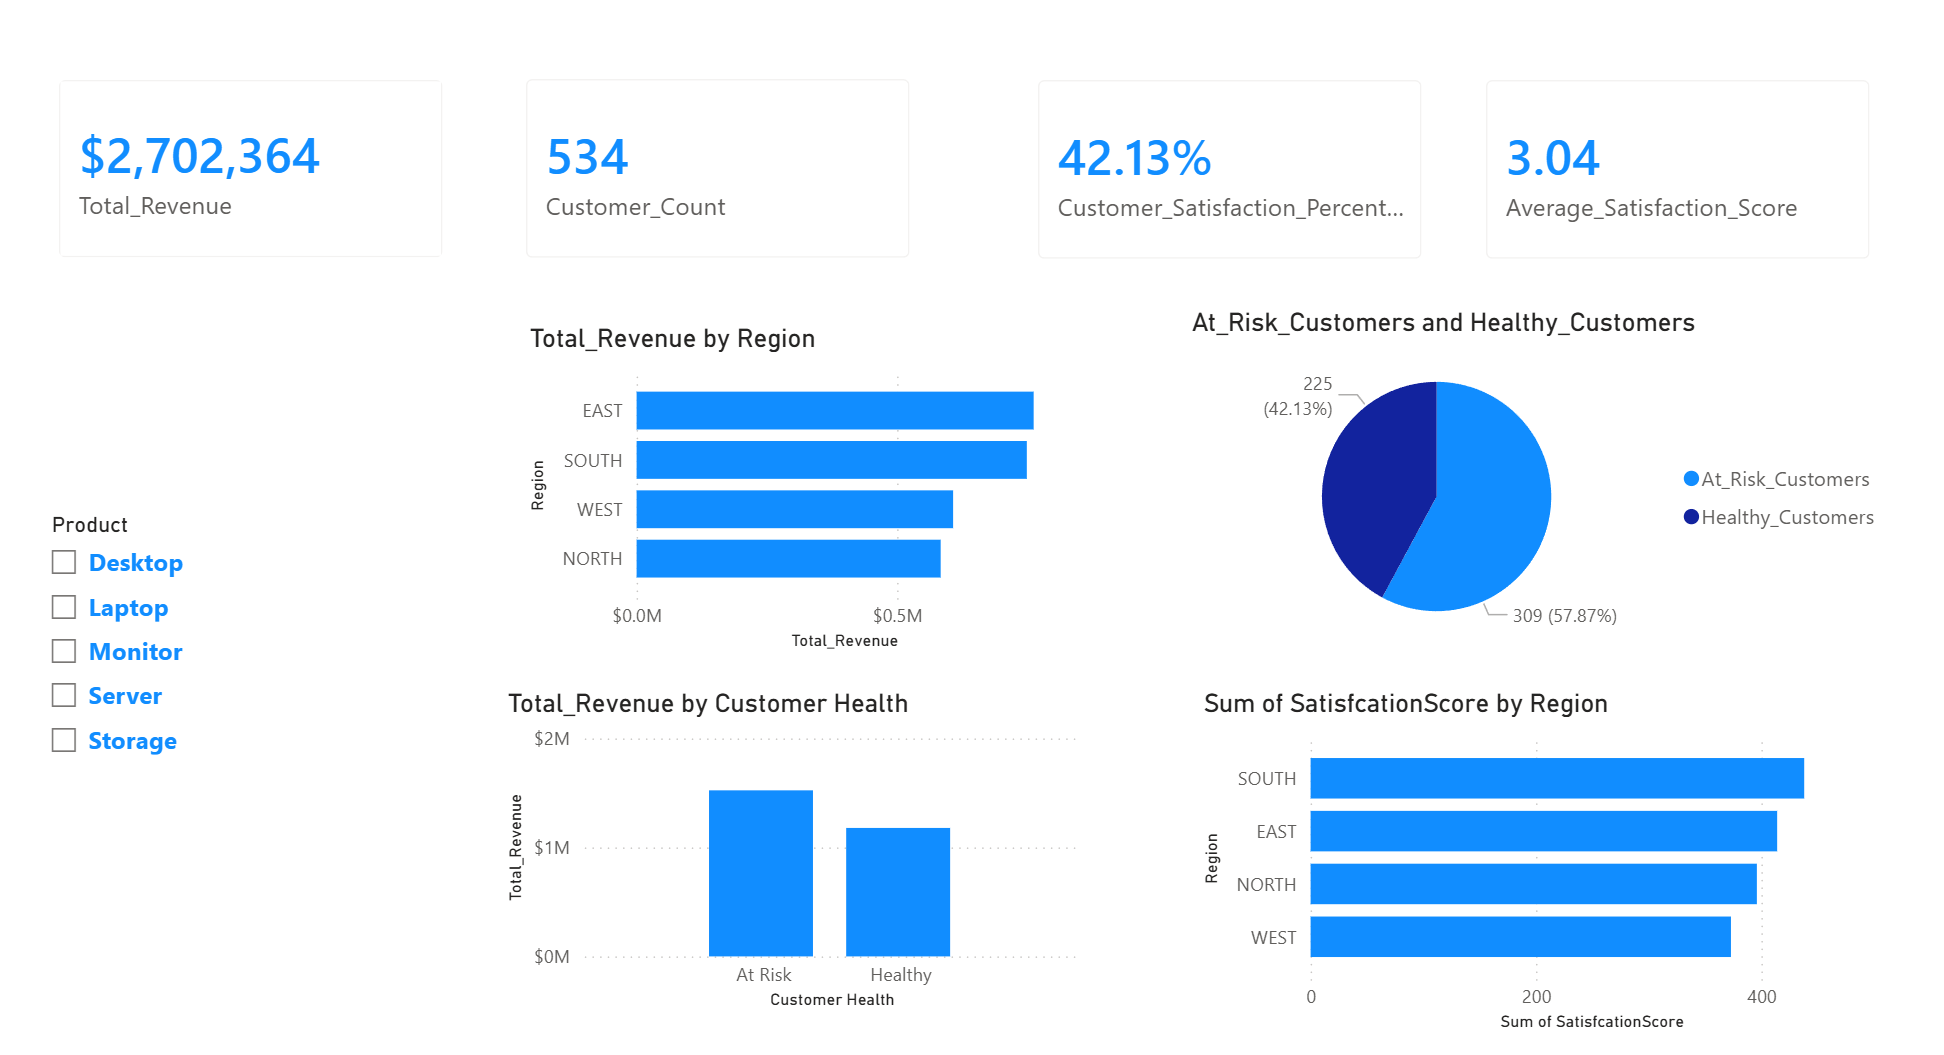
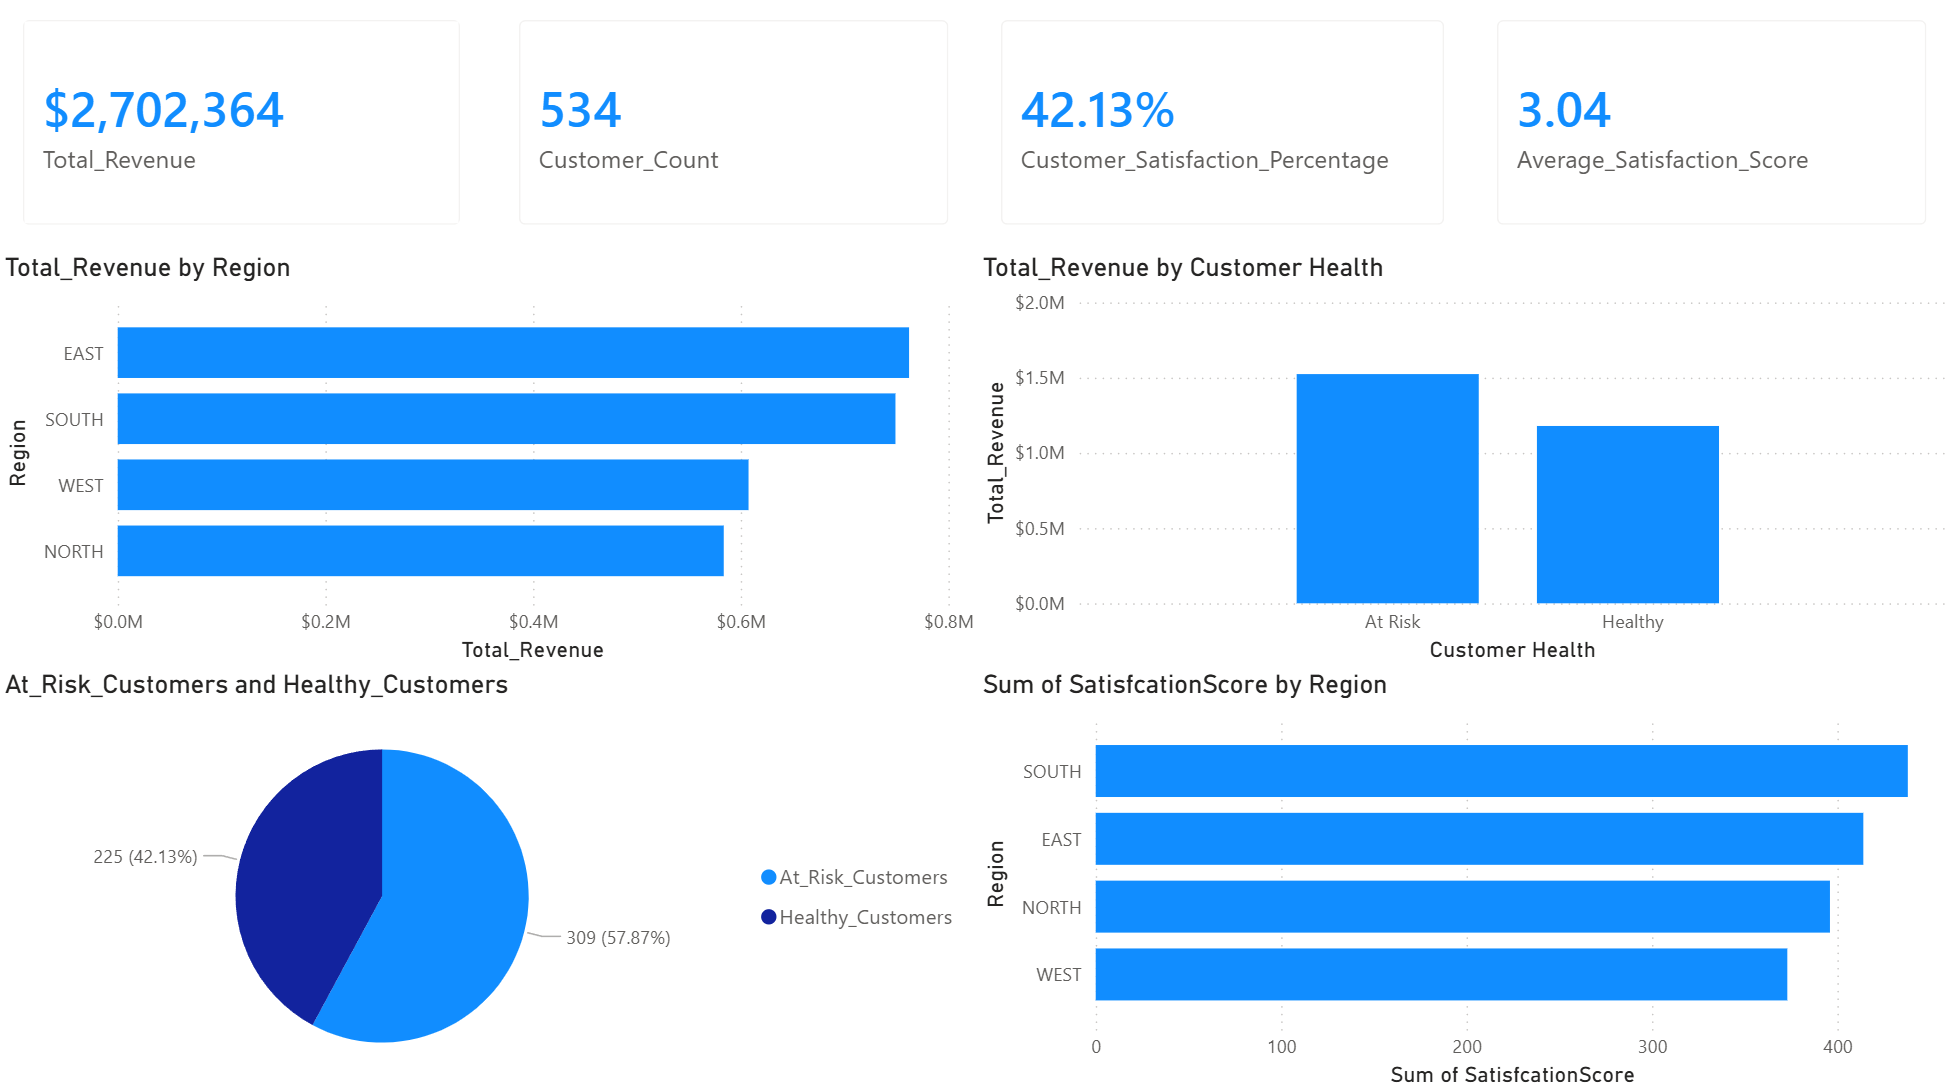
Polished AI Insights Dashboard and created better visual dashboards in Power BI

diff --git a/src/style.css b/src/style.css
@@ -56,7 +56,67 @@ body
     font-weight: 600;
     font-size: 40px;
 
+    color: rgb(17, 141, 255);
     margin-top: -35px;
+}
+
+.insightsContainer
+{
+    display: flex;
+    flex-direction: column;
+    align-items: center;
+    justify-content: flex-start;
+}
+
+.insightCard
+{
+    width: 90%;
+    font-size: 16px;
+    font-weight: 400;
+    line-height: 2;
+}
+
+.generateButton
+{
+
+    position: relative;
+    border: none;
+    font-family: 'Segoe UI';
+    font-size: 20px;
+    background-color: transparent;
+    transition: .5s ease;
+    cursor: pointer;
+
+}
+
+.generateButton:hover
+{
+    transform: scale(1.25);
+    color: rgb(17, 141, 255);
+}
+
+.generateButton::after
+{
+
+    content: "";
+
+    position: absolute;
+    left: 50%;
+
+    width: 0;
+    height: 1px;
+    bottom: -4px;
+
+    background-color: black;
+
+    transform: translateX(-50%);
+    transition: width 0.5s ease, background-color 1s ease ;
+}
+
+.generateButton:hover::after
+{
+    background-color: rgb(17, 141, 255);
+    width: 90%;
 }
 
 

diff --git a/src/components/Navbar.css b/src/components/Navbar.css
@@ -43,14 +43,41 @@ nav
 
 nav a
 {
+    position: relative;
     text-decoration: none;
     color: black;
-    transition: .3s;
+
+    transition: 0.5s ease;
 }
 
 nav a:hover
 {
-    transform: scale(1.3);
-    color: rgb(97, 218, 251);
+    color:rgb(17, 141, 255);
+    transform: scale(1.25);
+}
+
+nav a::after
+{
+    content: "";
+
+    position: absolute;
+    left: 50%;
+
+    width: 0;
+    height: 1px;
+    bottom: 10px;
+
+    background-color: black;
+
+    transform: translateX(-50%);
+    transition: width 0.5s ease, background-color 1s ease ;
+
+}
+
+nav a:hover::after
+{
+    background-color: rgb(17, 141, 255);
+    width: 100%;
+    
 }
 

diff --git a/src/dashboard.css b/src/dashboard.css
@@ -18,26 +18,10 @@
     height: 675px;
 }
 
-.healthHeader
-{
-    margin-top: -1px;
-    margin-bottom: 10px;
-    font-size: 50px;
-    color: rgb(68, 68, 255);
-}
-
 .supportdashImg
 {
     width: 1150px;
     height: 675px;
-}
-
-.supportHeader
-{
-    margin-top: -1px;
-    margin-bottom: 10px;
-    font-size: 50px;
-    color: rgb(68, 68, 255);
 }
 
 .insightsHeader
@@ -48,11 +32,3 @@
     color: rgb(68, 68, 255);
 }
 
-.insightCard
-{
-    width: 800px;
-    padding: 20px;
-    font-size: 20px;
-    font-weight: bold;
-    line-height: 2;
-}

diff --git a/src/pages/Insights.jsx b/src/pages/Insights.jsx
@@ -61,17 +61,22 @@ function Insights()
     
         <div className="bigBox">
 
-            <button onClick={generateSummary} disabled={loading}>
+            <div className= "insightsContainer">
 
-                {loading ? "Generating Summary..." : "Generate Summary"}
+                <button className="generateButton" onClick={generateSummary} disabled={loading}>
 
-            </button>
+                    {loading ? "Generating Summary..." : "Generate Summary"}
 
-            <div className="insightCard">
+                </button>
 
-                <p>{summary}</p>
+                <div className="insightCard">
+
+                    <p>{summary}</p>
+
+                </div>
 
             </div>
+
         </div>
 
     </motion.div>

diff --git a/src/pages/Health.jsx b/src/pages/Health.jsx
@@ -15,7 +15,7 @@ function Health()
         >
 
         <h1 className= "header">
-            Health Dashboard
+            Customer Health Dashboard
         </h1>
 
         </motion.div>